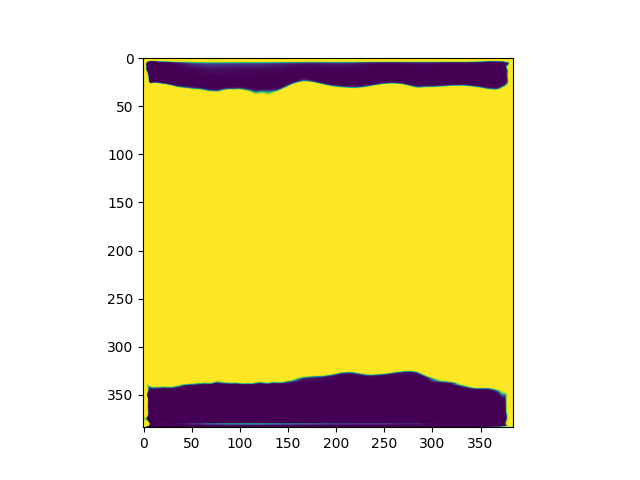
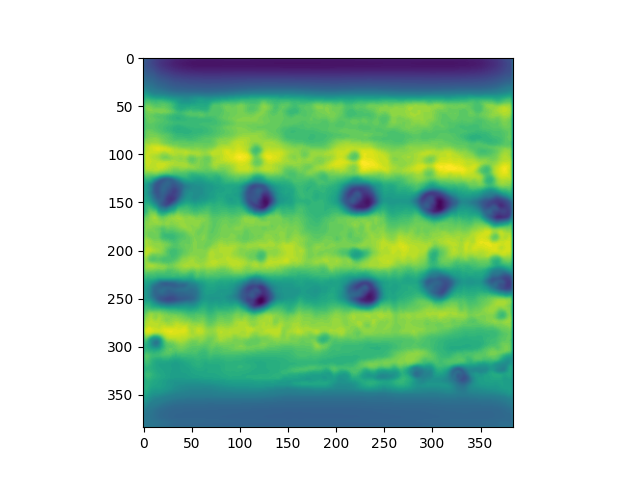
modified:   atten_map.png 	modified:   configs/FSC147/HRNET48.json 	modified:   datasets/base.py 	modified:   datasets/fsc_crowd.py 	modified:   eingine/densemap_trainer.py 	modified:   inference.py 	modified:   models/counting_head/base.py

diff --git a/inference.py b/inference.py
@@ -7,6 +7,7 @@ import cv2
 import torch
 import numpy as np
 from scipy import spatial as ss
+from matplotlib import pyplot as plt
 
 from termcolor import cprint
 from easydict import EasyDict as edict
@@ -83,8 +84,8 @@ def evaluate_counting_and_locating(model, data_loader, args, ):
     logger.add_meters(meter_names,meters)
     header = "Test"
     logger.set_header(header)
-    sigma_s = 4
-    sigma_l = 8
+    sigma_s = 8
+    sigma_l = 16
 
     save_path = args.save_path
     os.makedirs(save_path, exist_ok=True)
@@ -96,7 +97,8 @@ def evaluate_counting_and_locating(model, data_loader, args, ):
     for inputs, labels in logger.log_every(data_loader):
         inputs = inputs.to(args.gpu)
         assert inputs.shape[0] == 1
-        pred_points, pred_map, offsetmap = forward_points(model, inputs,labels["exampler"])
+        print(inputs.shape)
+        pred_points, pred_map, offsetmap,attention_map = forward_points(model, inputs,labels["exampler"])
         i = 0
         hf, wf = offsetmap.shape[-2], offsetmap.shape[-1]
 
@@ -166,9 +168,10 @@ def evaluate_counting_and_locating(model, data_loader, args, ):
                                                pred_pts.shape[0], sigma_s)
             tp_l, fp_l, fn_l, tp_l_idx, fp_l_idx, fn_l_idx = compute_metrics(dist_matrix, match_matrix,
                                                pred_pts.shape[0], sigma_l)
-        try:
-            if args.vis:
-                tp_points=[]
+
+        if args.vis:
+            tp_points=[]
+            if len(pred_pts) != 0:
                 for idx in tp_s_idx:
                     tp_points.append(pred_points[0][idx])
                 dmap=draw_points(dmap,tp_points,(0,255,0))
@@ -180,10 +183,17 @@ def evaluate_counting_and_locating(model, data_loader, args, ):
                 for idx in fn_s_idx:
                     fn_points.append((gt_pts[idx][0]*w1/w,gt_pts[idx][1]*h1/h))
                 dmap=draw_points(dmap,fn_points,(0,0,255))
-                cv2.imwrite(os.path.join(save_path,str(labels["id"][i].item())+f"_dmap_{tp_l}_{fp_l}_{fn_l}.jpg"),dmap)
-                f.write(str(labels["id"][0].item())+" "+str(len(pred_pts)) )
-        except:
-            continue
+            for box in labels["exampler"][0]:
+                box=box.cpu().numpy()
+                box=box.astype(np.int32)
+                x,y,w,h=box
+                cv2.rectangle(dmap,(x,y),(x+w,y+h),(0,255,255),2)
+            cv2.imwrite(os.path.join(save_path,str(labels["id"][i].item())+f"_dmap_{tp_l}_{fp_l}_{fn_l}.jpg"),dmap)
+            attention_map=attention_map[0,0].detach().cpu().numpy()
+            plt.imshow(attention_map)
+            plt.savefig(os.path.join(save_path,str(labels["id"][i].item())+f"_atten_map_{tp_l}_{fp_l}_{fn_l}.jpg"))
+            f.write(str(labels["id"][0].item())+" "+str(len(pred_pts)) )
+
         for pt in pred_pts:
             f.write(" "+str(pt[0])+" "+str(pt[1]))
         f.write("\n")
@@ -240,10 +250,10 @@ def forward_points(model, x,ext_info):
     out_dict = model.decoder_layers(z,example_box)
     counting_map = out_dict["predict_counting_map"].half()
     offset_map = out_dict["offset_map"].half()
-
+    attention_map=out_dict["atten_map"].half()
     pred_points = divide_map_to_points(counting_map, offset_map, device=x.device)
 
-    return [pred_points], counting_map, offset_map
+    return [pred_points], counting_map, offset_map,attention_map
 
 
 def gen_global_grid(H, W, padding):
@@ -267,7 +277,7 @@ def main(args,ckpt_path):
     load_param_dict = {k: v for k, v in state_dict.items() if k in model_dict and k.find("grid") == -1}
     model_dict.update(load_param_dict)
     
-    model_without_ddp.load_state_dict(model_dict)
+    model_without_ddp.load_state_dict(model_dict, strict=False)
     model.cuda().eval()
     
     dataset_val = build_dataset(image_set='test', args=args.Dataset.test)
@@ -290,9 +300,9 @@ if __name__ == "__main__":
     parser = argparse.ArgumentParser("DenseMap Head ")
     parser.add_argument("--config", default="configs/FSC147/HRNET48.json")
     parser.add_argument("--local_rank", type=int)
-    parser.add_argument("--ckpt",default="outputs/HRNET48_202407172350/checkpoints/best.pth")
+    parser.add_argument("--ckpt",default="outputs/HRNET48_202407192201/checkpoints/best.pth")
     parser.add_argument("--no_save", action="store_true")
-    parser.add_argument("--save_path",default="outputs/fsc_3/")
+    parser.add_argument("--save_path",default="outputs/fsc_7/")
     parser.add_argument("--vis", action="store_true")
     args = parser.parse_args()
 

diff --git a/models/counting_head/base.py b/models/counting_head/base.py
@@ -53,7 +53,7 @@ def roi_pooling(input, boxes, output_size):
             x_max = x_min + width+1
             y_max = y_min + height+1
             region = input[i, :, y_min:y_max, x_min:x_max]
-            pooled_region = F.adaptive_max_pool2d(region, output_size)
+            pooled_region = F.interpolate(region.unsqueeze(0), size=output_size, mode='bilinear', align_corners=True)
             output[i, j] = pooled_region
 
     return output
@@ -81,6 +81,15 @@ class Simple(nn.Module):
             nn.Sigmoid()
         )
         
+        self.attention_layer = nn.Sequential(
+            nn.Conv2d(49, 49, 3, padding=1),
+            nn.ReLU(),
+            nn.Conv2d(49, 49, 3, padding=1),
+            nn.ReLU(),
+            nn.Conv2d(49, 1, 1),
+            nn.Sigmoid()
+        )
+        
         self.fpn_fuse1=FPN_fuse(feature_channels=[64,48,96,192,384],fpn_out=64)
         self.fpn_fuse2=FPN_fuse(feature_channels=[64,48,96,192,384],fpn_out=64)
         self.example_fuse=FPN_fuse(feature_channels=[64,48,96,192,384],fpn_out=64)
@@ -99,10 +108,10 @@ class Simple(nn.Module):
 
     def forward(self, x, x_example):
         x0, x1, x2 , x3, x4  = x
-        box=x_example/2
+        boxes=x_example/2
         
         z1=self.fpn_fuse1([x0, x1, x2, x3,x4])
-        z_e=roi_pooling(z1, box, (7, 7))#(N, M, C, 7, 7)
+        z_e=roi_pooling(z1, boxes, (7, 7))#(N, M, C, 7, 7)
         # Reshape z_e and z1 for self-attention calculation
         N, M, C= z_e.shape[:3]
         H,W=z1.shape[2:]
@@ -110,20 +119,29 @@ class Simple(nn.Module):
         z1_reshaped = z1.view(N, C, -1)  # (N, C, H*W)
 
         # Compute attention scores for each sample independently
-        attention_scores = torch.einsum('nmcl,nch->nmlh', z_e_reshaped, z1_reshaped)  # (N, M, 49, H*W)
+        attention_scores = torch.einsum('nmcl,nch->nmlh', z_e_reshaped, z1_reshaped)/C  # (N, M, 49, H*W)
         
         # Aggregate attention scores for each image
-        attention_scores = attention_scores.sum(dim=1)  # (N, 49, H*W)
-
-        # Compute attention map
-        # attention_map = F.softmax(attention_scores, dim=-1)  # (N, 49, H*W)
-        attention_map = attention_scores.mean(dim=1)  # (N, H*W)
-        attention_map = attention_map.view(N, H, W)  # (N, H, W)
-        attention_map = F.sigmoid(attention_map)
-        out1 = self.last_layer(z1*attention_map.unsqueeze(1))
+        attention_scores = attention_scores.mean(dim=1).view(N, 49, H, W)  # (N, 49, H, W)
+        attention_map=self.attention_layer(attention_scores)
+        # attention_map = F.sigmoid(attention_map)
+        out1 = self.last_layer(z1*attention_map)
         z2=self.fpn_fuse2([x0, x1, x2, x3,x4])
         offset = (2 * self.offset_layer(z2) - 1.0) * self.radius
 
+        # with torch.no_grad():
+        #     scales=torch.zeros((N,1))
+        #     scales=scales.to(x0.device)
+        #     for batch_idx,batch_boxes in enumerate(boxes):
+        #         for box in batch_boxes:
+        #             x_min, y_min, height, width = box.long()
+        #             scales[batch_idx,0]+=out1[0,0,y_min:y_min+height,x_min:x_min+width].sum()
+        #         scales[batch_idx,0]=scales[batch_idx,0]/batch_boxes.shape[0]
+        #     scales=scales.unsqueeze(2).unsqueeze(3)
+        #     out1=out1/scales
+                
+                
+            
         out_dict = {}
         out_dict["predict_counting_map"] = out1
         out_dict["offset_map"] = offset

diff --git a/datasets/fsc_crowd.py b/datasets/fsc_crowd.py
@@ -94,9 +94,16 @@ class FSC147_test(Counting_test):
         new_labels["w1h1"]=labels["w1h1"]
         new_labels["boxes"] = torch.zeros((self.max_len, 4), dtype=torch.float32)
         new_labels["exampler"]= torch.zeros((self.max_len, 4), dtype=torch.float32)
+        new_labels["exampler_ori"]= torch.zeros((self.max_len, 4), dtype=torch.float32)
+        
         target_cnt=0
         exampler_cnt=0
         exampler_mask=torch.zeros((1,image.shape[1],image.shape[2]),dtype=torch.float32)
+        ori_w,ori_h=labels["wh"]#original image size
+        resized_w,resized_h=labels["w1h1"]#resized image size
+        w_scale=ori_w/resized_w
+        h_scale=ori_h/resized_h
+        
         for i in range(labels["num"]):
             if labels["classes"][i] == 0:
                 new_labels["points"][target_cnt] = labels["points"][i]
@@ -104,10 +111,14 @@ class FSC147_test(Counting_test):
                 new_labels["boxes"][target_cnt] = labels["boxes"][i]
                 target_cnt+=1
             else:
-                new_labels["exampler"][exampler_cnt] = labels["boxes"][i]
                 x,y,w,h=labels["boxes"][i]
+                new_labels["exampler_ori"][exampler_cnt] = torch.tensor([x,y,w,h],dtype=torch.float32)
+                x,w=x/w_scale,w/w_scale
+                y,h=y/h_scale,h/h_scale
                 x,y,w,h=int(x),int(y),int(w),int(h)
+                new_labels["exampler"][exampler_cnt] = torch.tensor([x,y,w,h],dtype=torch.float32)
                 exampler_mask[0,y:y+h,x:x+w]=1
+                exampler_cnt+=1
         new_labels["num"] = target_cnt
         image = torch.cat([image,exampler_mask],dim=0)
         return image, new_labels

diff --git a/eingine/densemap_trainer.py b/eingine/densemap_trainer.py
@@ -29,7 +29,7 @@ def train_one_epoch(model: torch.nn.Module, criterion: torch.nn.Module,
         outputs_dict = model(inputs,labels["exampler"])
         if draw and args.gpu==0:
             atten_map=outputs_dict["atten_map"]
-            atten_map=atten_map[0].detach().cpu().numpy()
+            atten_map=atten_map[0,0].detach().cpu().numpy()
             plt.imshow(atten_map)
             plt.savefig("atten_map.png")
             img=inputs[0][:3].detach().cpu().numpy()

diff --git a/datasets/base.py b/datasets/base.py
@@ -137,6 +137,7 @@ class Counting_test(CocoDetection):
         image = np.array(image)
         bboxes_with_classes = [(obj["bbox"], obj["category_id"])
                                for obj in target]
+        
         kpses = []
         clses = []
         boxes = []
